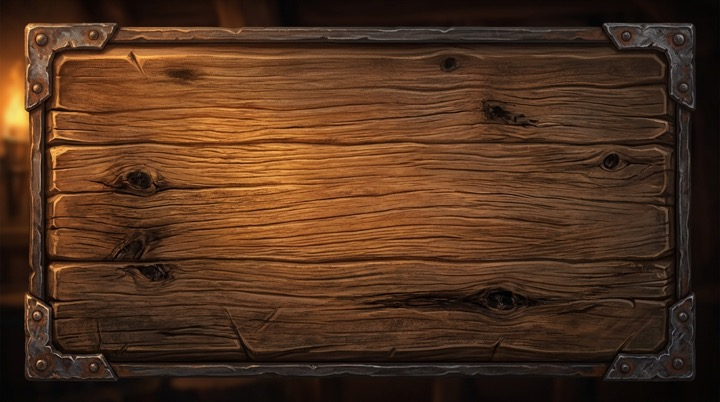
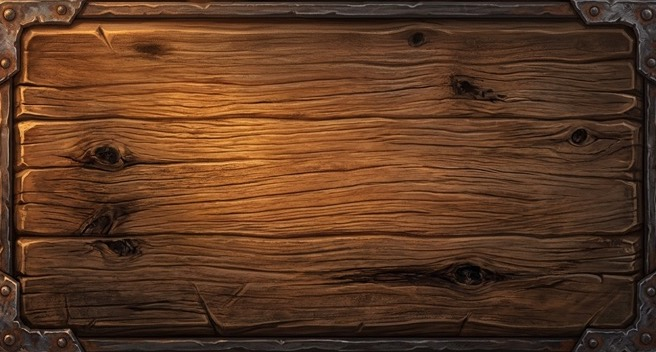
Crop outer dark margins from wood_plank.jpg so wood texture fills all boxes edge-to-edge

diff --git a/retro.css b/retro.css
@@ -323,7 +323,7 @@ body:has(#menu:not([hidden])) #fl {
   border: 1.5px solid #8a6432 !important;
   background:
     linear-gradient(rgba(16, 10, 5, 0.24), rgba(10, 6, 3, 0.38)),
-    url('wood_plank.jpg?v=20261115_w1') center / 100% 100% no-repeat !important;
+    url('wood_plank.jpg?v=20261116_w2') center / 100% 100% no-repeat !important;
   color: #fae8c8 !important;
   text-shadow: 0 2px 4px rgba(0, 0, 0, 0.96), 0 1px 1px rgba(0, 0, 0, 0.9) !important;
   text-transform: none !important;
@@ -431,7 +431,7 @@ body:has(#menu:not([hidden])) #fl {
   border-radius: 7px !important;
   background:
     linear-gradient(rgba(16, 10, 5, 0.24), rgba(10, 6, 3, 0.38)),
-    url('wood_plank.jpg?v=20261115_w1') center / 100% 100% no-repeat !important;
+    url('wood_plank.jpg?v=20261116_w2') center / 100% 100% no-repeat !important;
   text-shadow: 0 2px 4px rgba(0, 0, 0, 0.96) !important;
   box-shadow:
     0 4px 0 #140b04,
@@ -451,7 +451,7 @@ body:has(#menu:not([hidden])) #fl {
 .btn.alt {
   background:
     linear-gradient(rgba(16, 10, 5, 0.32), rgba(10, 6, 3, 0.46)),
-    url('wood_plank.jpg?v=20261115_w1') center / 100% 100% no-repeat !important;
+    url('wood_plank.jpg?v=20261116_w2') center / 100% 100% no-repeat !important;
   border-color: #8a6432 !important;
   color: #fae8c8 !important;
 }
@@ -494,7 +494,7 @@ body:has(#menu:not([hidden])) #fl {
   border-radius: 12px;
   background:
     linear-gradient(rgba(14, 9, 5, 0.72), rgba(10, 6, 3, 0.82)),
-    url('wood_plank.jpg?v=20261115_w1') center / cover no-repeat;
+    url('wood_plank.jpg?v=20261116_w2') center / cover no-repeat;
   box-shadow:
     0 0 0 3px #0c0704,
     0 0 0 5px #573d1d,
@@ -935,7 +935,7 @@ html::after {
   padding: 8px 16px;
   background:
     linear-gradient(rgba(16, 10, 5, 0.42), rgba(10, 6, 3, 0.56)),
-    url('wood_plank.jpg?v=20261115_w1') center / 100% 100% no-repeat;
+    url('wood_plank.jpg?v=20261116_w2') center / 100% 100% no-repeat;
   border: 2px solid #8f6e3b;
   border-radius: 12px;
   box-shadow:
@@ -996,7 +996,7 @@ html::after {
   padding: 10px 18px;
   background:
     linear-gradient(rgba(16, 10, 5, 0.42), rgba(10, 6, 3, 0.56)),
-    url('wood_plank.jpg?v=20261115_w1') center / 100% 100% no-repeat;
+    url('wood_plank.jpg?v=20261116_w2') center / 100% 100% no-repeat;
   border: 2px solid #8f6e3b;
   border-radius: 10px;
   box-shadow:
@@ -1054,7 +1054,7 @@ html::after {
   text-shadow: 0 2px 4px rgba(0, 0, 0, 0.96);
   background:
     linear-gradient(rgba(16, 10, 5, 0.28), rgba(10, 6, 3, 0.44)),
-    url('wood_plank.jpg?v=20261115_w1') center / 100% 100% no-repeat;
+    url('wood_plank.jpg?v=20261116_w2') center / 100% 100% no-repeat;
   border: 1.5px solid #8a6432;
   border-radius: 7px;
   box-shadow:
@@ -1175,7 +1175,7 @@ body.dragging-joker #fx::after {
   padding: 6px 24px;
   background:
     linear-gradient(rgba(16, 10, 5, 0.45), rgba(10, 6, 3, 0.60)),
-    url('wood_plank.jpg?v=20261115_w1') center / 100% 100% no-repeat;
+    url('wood_plank.jpg?v=20261116_w2') center / 100% 100% no-repeat;
   border: 2px solid #7d6238;
   border-radius: 18px;
   box-shadow:
@@ -2890,7 +2890,7 @@ body.dragging-joker #fx::after {
   border-radius: 14px;
   background:
     linear-gradient(rgba(16, 10, 5, 0.62), rgba(10, 6, 3, 0.76)),
-    url('wood_plank.jpg?v=20261115_w1') center / cover no-repeat;
+    url('wood_plank.jpg?v=20261116_w2') center / cover no-repeat;
   border: 2.5px solid #d4a64a;
   box-shadow:
     0 0 0 1px rgba(0, 0, 0, 0.95),

diff --git a/index.html b/index.html
@@ -17,7 +17,7 @@
 <link rel="preconnect" href="https://fonts.gstatic.com" crossorigin>
 <link href="https://fonts.googleapis.com/css2?family=Cinzel:wght@600;700;800;900&family=Cormorant+Garamond:wght@600;700&family=Grenze+Gotisch:wght@600;700;800;900&display=swap" rel="stylesheet">
 <link rel="stylesheet" href="style.css?v=20261115_hs19">
-<link rel="stylesheet" href="retro.css?v=20261116_m1">
+<link rel="stylesheet" href="retro.css?v=20261116_m2">
 </head>
 <body>
 <div id="splash"><img id="slogo" alt=""><b>limbigames</b></div>
